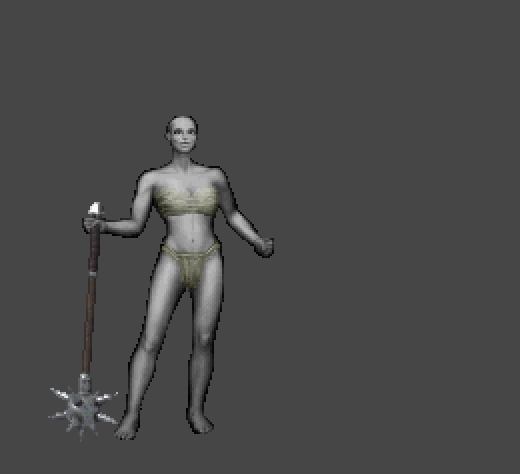
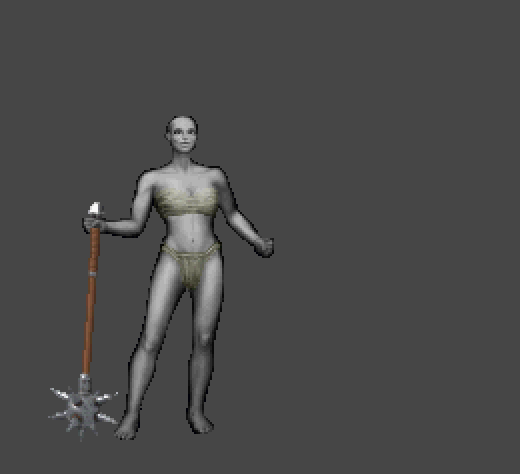
UOModel3D: mace2h paperdoll and art: the haft in the same wood colour as the game's .vd (mean 101/67/47 gump, 97/62/43 art, 97/66/43 vd)
Claude-Session: https://claude.ai/code/session_01CzhEnGTatDmwff3sx4yBA7

Changed region(s): [[0.1538, 0.4726, 0.2154, 0.7975]]

diff --git a/pipeline/uo_render_mace2h_gump_orig.py b/pipeline/uo_render_mace2h_gump_orig.py
@@ -31,6 +31,10 @@ SPIKE_WIDTH = 1.55           # their width x this: the original's are tiny at 90
 ROLL = 25.0                  # deg: the weapon turned about its axis (the 12 spikes are at 45 deg steps: one at the camera and down hid in front of the ball's collar)
 OUTLINE = 0.75               # the edge pixels (next to transparency): the mean colour of their inner neighbours x this
 RIM = 0.45                   # art: the ring outside the item: the mean colour of the neighbouring pixels x this
+WOOD_COLOR = (0.36, 0.23, 0.13)   # sRGB: the wood of the original's texture recoloured to the one brown of the game's .vd (pipeline/uo_mace2h_retexture.py WOOD_COLOR), so that the haft has the same colour in the gump, the art and the game
+WOOD_GRAIN = 0.25            # the grain (light / dark texels) of the original's wood kept: exponent of the texel / the median of the wood
+ART_WOOD_GAIN = 1.2          # the art is lit from above by the same sun, its wood came out darker (80 against 97 of the .vd): a little more
+WOOD_GAIN = 1.0              # x on WOOD_COLOR: the gump's light is not the game's (the mean wood colour of the gump is matched to the .vd's)
 HD_SCALE = 4                 # the large weapon-only pictures (gump_*_hd.png) at this x the gump's resolution (0 = none)
 
 
@@ -85,10 +89,31 @@ def grade(a, outline=OUTLINE, rim=None):
     return out
 
 
+_ORIG = {}
+
+
+def recolour_wood(gain=None):
+    """the texels of the base colour map that are not metal (the metal map: blue channel of the metallic-roughness image) get one wood brown with the original's grain; the steel is left"""
+    base, mr = bpy.data.images.get("Image_0"), bpy.data.images.get("Image_1")
+    if base is None or mr is None:
+        print("OG: no Image_0 / Image_1 in the glb, the wood is not recoloured"); return
+    w, h = base.size
+    if "b" not in _ORIG:
+        _ORIG["b"] = np.array(base.pixels[:], np.float32).reshape(h, w, 4); _ORIG["m"] = np.array(mr.pixels[:], np.float32).reshape(h, w, 4)[..., 2] > 0.5
+    b = _ORIG["b"].copy(); m = _ORIG["m"]
+    gain = WOOD_GAIN if gain is None else gain
+    luma = b[..., :3].mean(2); med = float(np.median(luma[~m]))
+    wood = np.clip(np.array(WOOD_COLOR, np.float32)[None, None, :] * gain * (np.clip(luma, 0.03, None) / med)[..., None] ** WOOD_GRAIN, 0, 1)
+    b[..., :3] = np.where(m[..., None], b[..., :3], wood)
+    base.pixels.foreach_set(b.reshape(-1)); base.update()
+    print("OG: wood recoloured, %.0f %% of the texels" % (100.0 * (~m).mean()))
+
+
 def main(src, out):
     bpy.ops.wm.read_factory_settings(use_empty=True)
     sc = bpy.context.scene
     bpy.ops.import_scene.gltf(filepath=os.path.abspath(src))
+    recolour_wood()
     objs = [o for o in sc.objects if o.type == "MESH"]
     bpy.ops.object.select_all(action="DESELECT")
     for o in objs:
@@ -183,6 +208,7 @@ def main(src, out):
         th = np.radians(G.TILT_UP); d_up = (-np.sin(th), 0.0, np.cos(th))
         put(gender, "gump_%s_up" % gender, G.pose(V, butt, hd, float(s.max()) / 2, d_up), gx, gy)
 
+    recolour_wood(ART_WOOD_GAIN)
     d45 = (np.sqrt(0.5), np.sqrt(0.5), 0.0)
     Va, _ = G.stretch_shaft(V, hd, s, bb, G.ART_STRETCH)
     R = np.array(Vector(hd.tolist()).rotation_difference(Vector(d45)).to_matrix())

diff --git a/model/items/mace2h/README.md b/model/items/mace2h/README.md
@@ -35,3 +35,5 @@ What the recipe does (every setting is described in the header of `pipeline/uo_m
 - **Version 2, Walk Armed (1), second pass with the leather gloves (anim 545 of the client) as the reference of where the hand is:** the gloves laid over the body show the fist's block; with them dir 2 needs +2 px in x (`hand_off` {"2": [2, 0]}) and dir 1 the per-frame offsets read by the user in the viewer (`hand_nudge` {"1": {"3": [2, 0], "4": [3, 0], "5": [3, 0], "6": [5, 0], "7": [4, 0], "8": [1, 0], "9": [1, 0]}}, relative to the fist of the rig; frames 0-2 are fine). In dir 2 only the left hand (the first grip point) may cut the shaft: scene `uo_grip_cut_first` "1:2" (`action:direction`, comma separated). Method for the next time: unpack `anim_0545.vd` with `vd_swap_action.py init` and composite it over the body frames and the item at zoom 12-14 (the weapon drawn over the glove without the hand cut shows how far the axis is from the glove's fist).
 
 - **Wooden haft, steel only where the original has steel (`pipeline/uo_mace2h_retexture.py`):** the UVs of the decimated item mixed the islands of the atlas (10-30 % of the haft's vertices sat on steel texels of the original's texture, and the metal highlight was on the whole weapon), so the grey showed through the wood. The script puts the steel by the original's profile along the axis as the vertex attribute `uo_metal` (pommel with the ring above it, the ring at 0.40 m, collar and ball with spikes), builds the colour textures at 256 px with wood and steel averaged separately (the wood = one brown, `WOOD_COLOR`, with the grain of the original; the steel x `STEEL_VALUE`), mixes them by `uo_metal` and multiplies the metal highlight by it. Gotcha: a packed image changed through `Image.pixels` is saved only after `Image.pack()`.
+- **Paperdoll and art in the colour of the game's haft:** `uo_render_mace2h_gump_orig.py` recolours the non-metal texels of the original's texture to the same wood brown as the .vd (`WOOD_COLOR` 0.36 / 0.23 / 0.13, grain kept; the metal map decides what stays steel); the mean wood colour is 101 / 67 / 47 in the gumps and 97 / 62 / 43 in the art, 97 / 66 / 43 in the .vd (`WOOD_GAIN`, `ART_WOOD_GAIN` match the different light).
+
